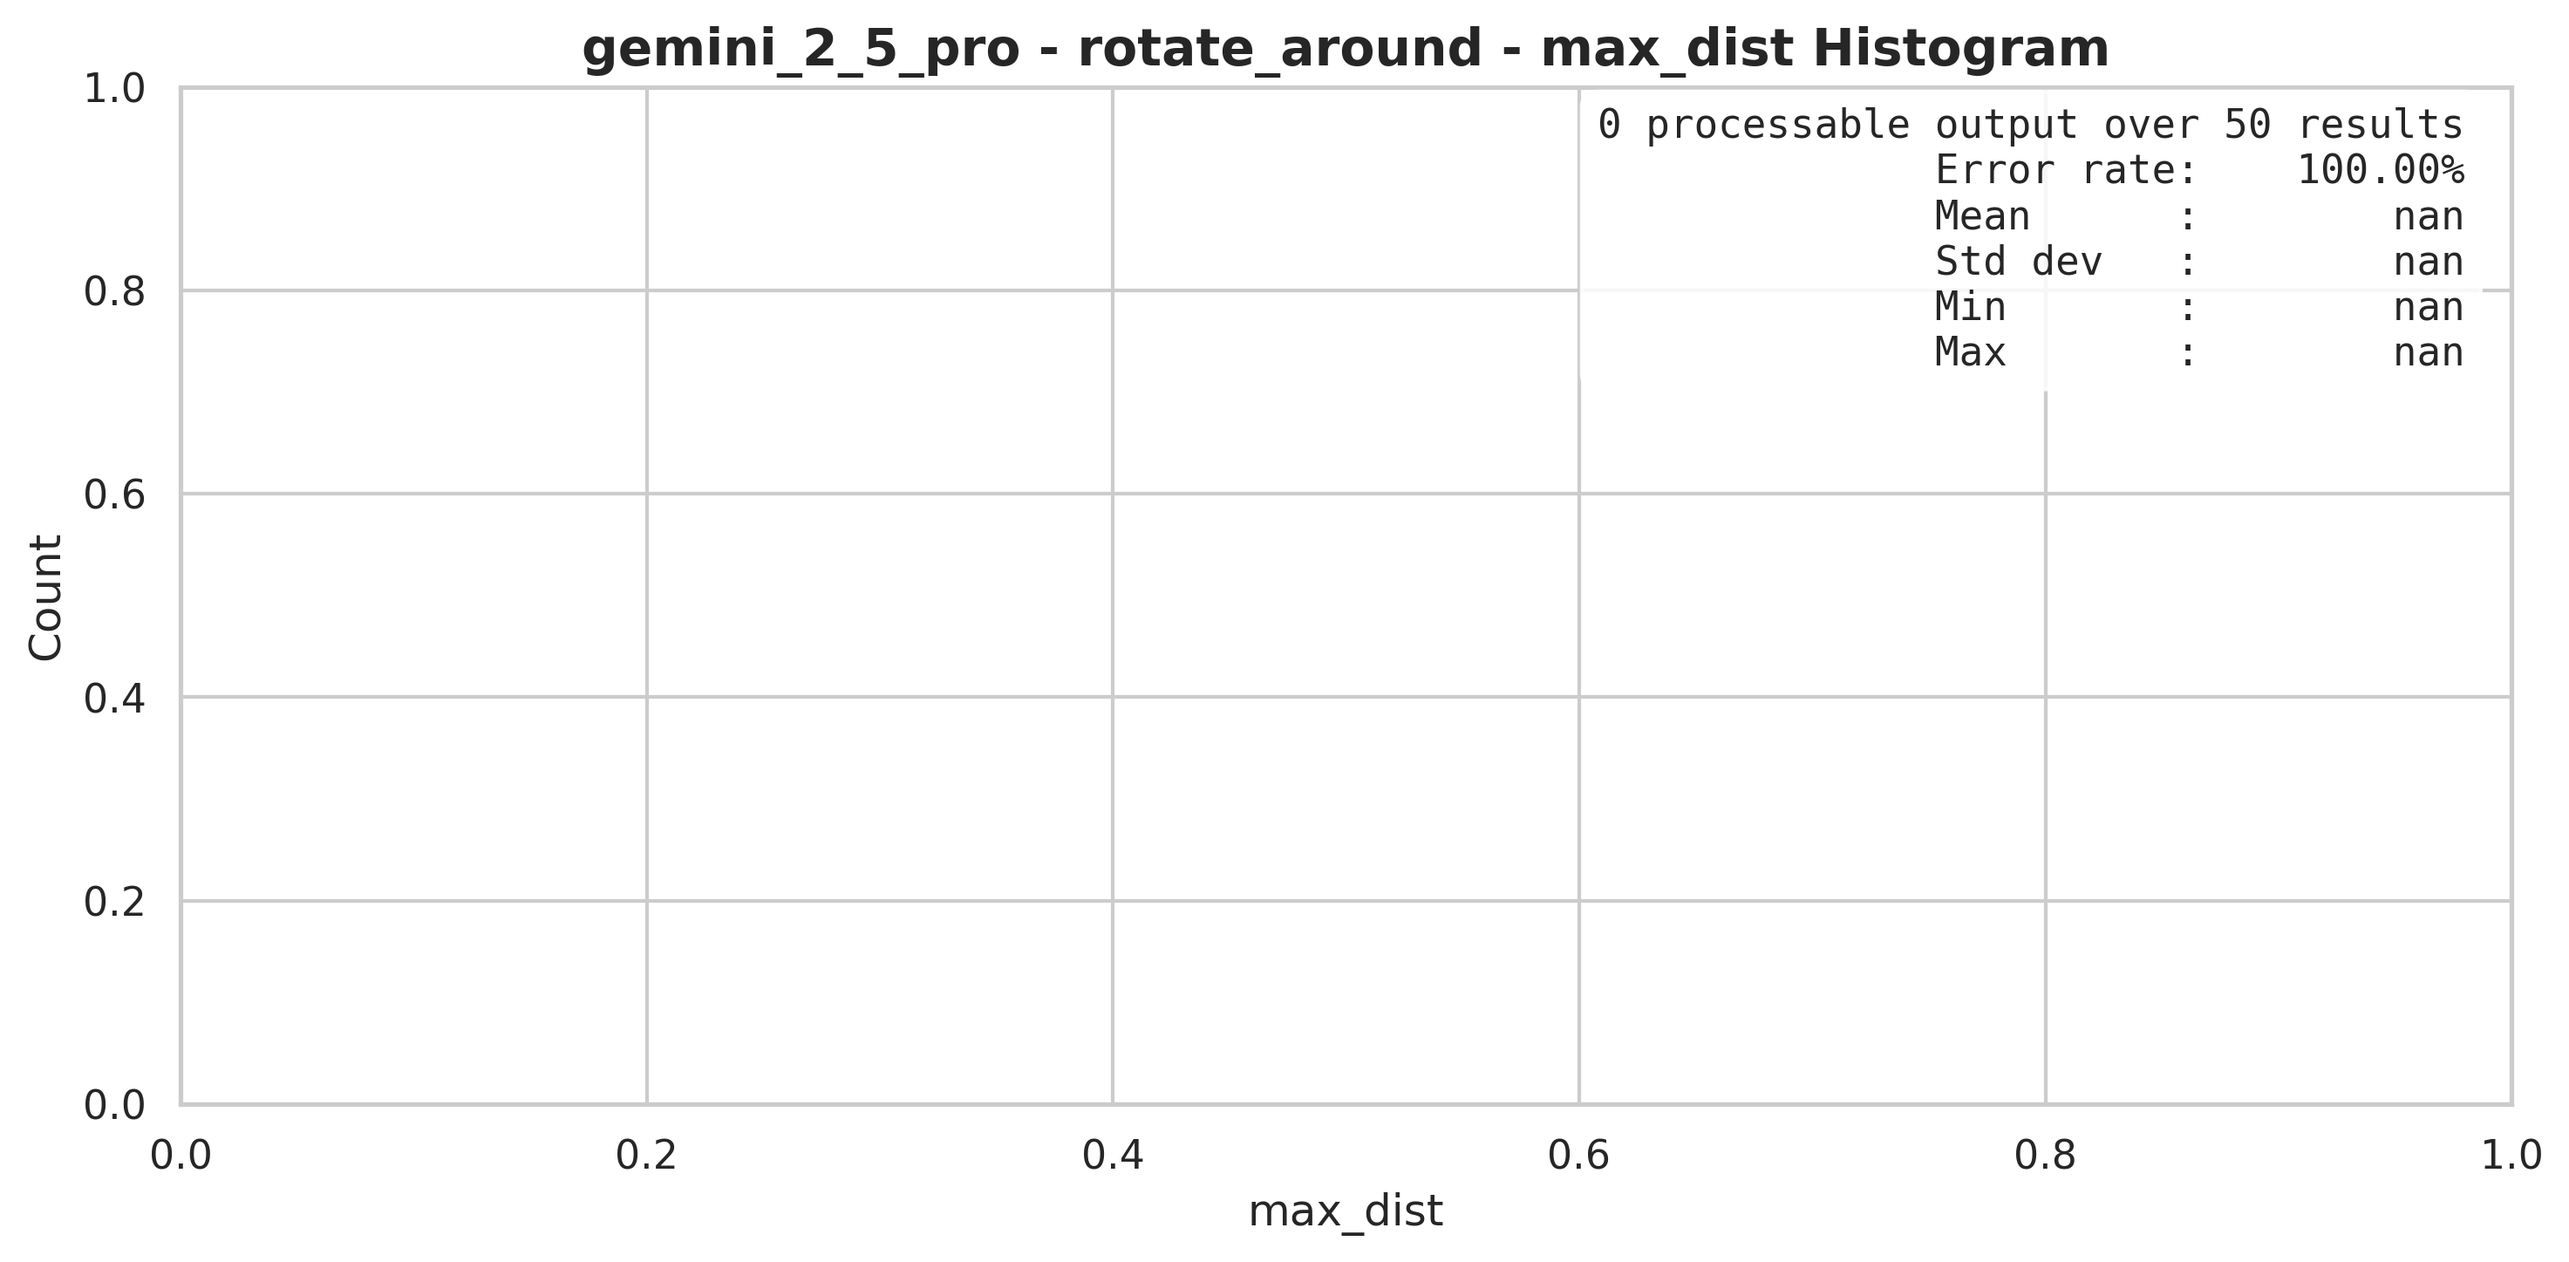
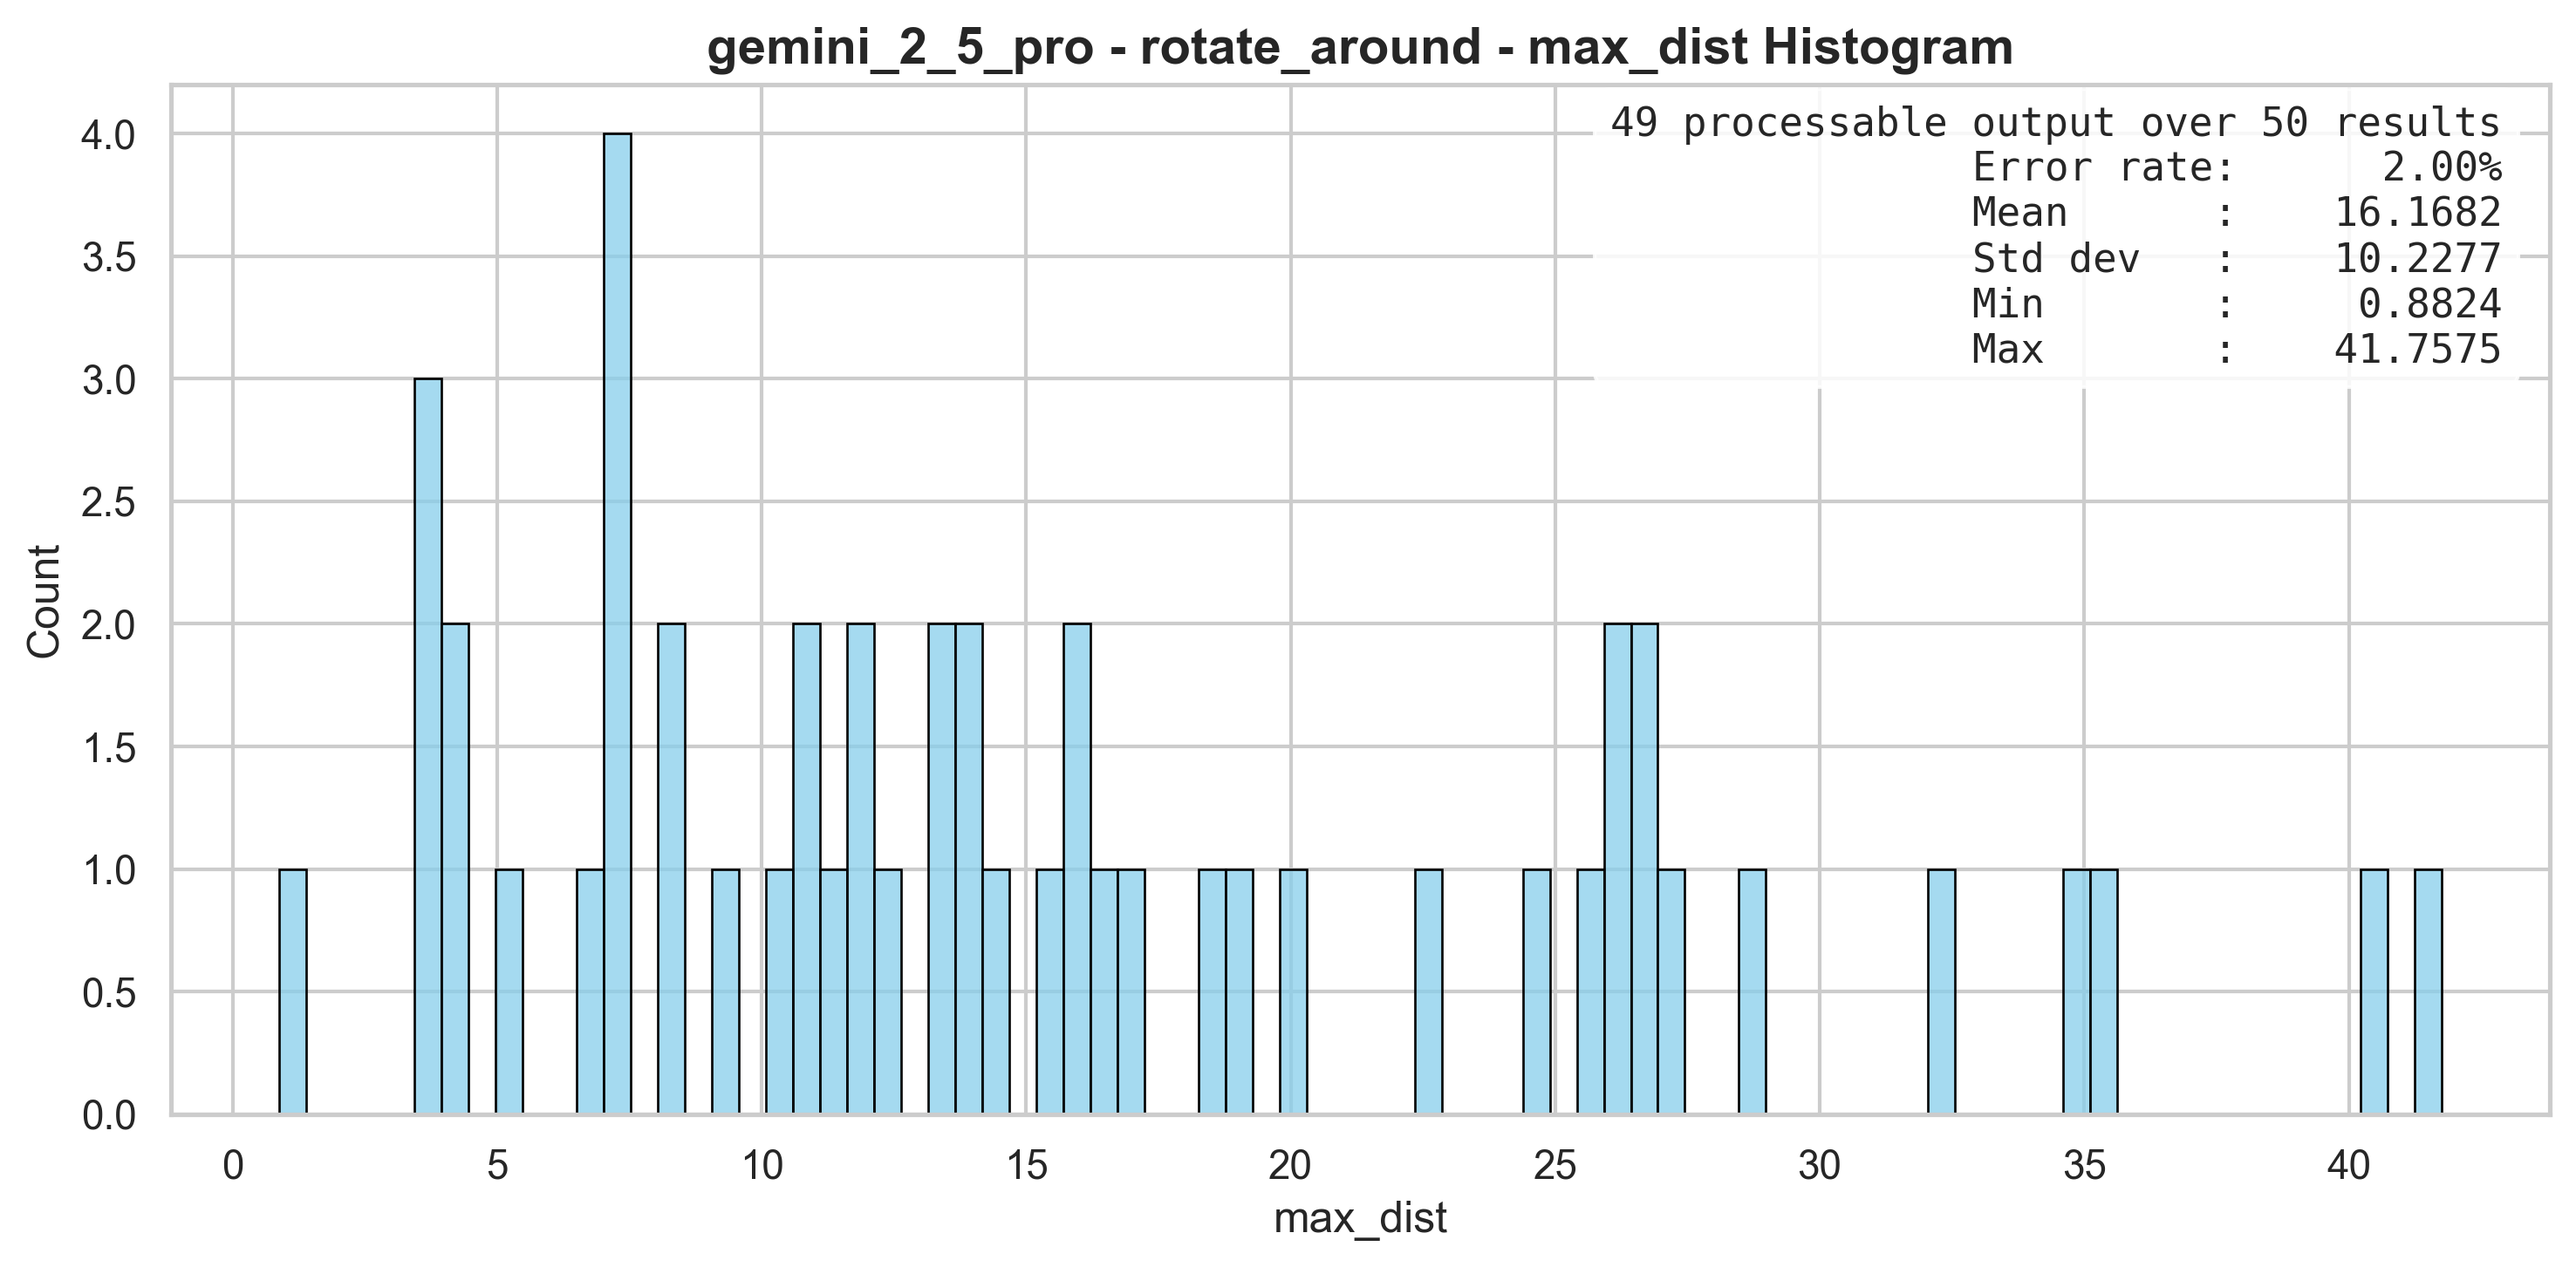
multi-folder analyse

diff --git a/src/point_world/scripts/analyze.py b/src/point_world/scripts/analyze.py
@@ -8,6 +8,7 @@ import os
 parser = argparse.ArgumentParser(description="Analyze evaluation results.")
 parser.add_argument("-m", "--model_name", type=str, required=True, help="Name of the model")
 parser.add_argument("-a", "--action_name", type=str, required=True, help="Name of the action")
+parser.add_argument("--all", action="store_true", help="Merge all result CSVs for the given model and action from all subfolders")
 args = parser.parse_args()
 
 # ========== Setup ==========
@@ -16,29 +17,53 @@ model_name = args.model_name
 action_name = args.action_name
 results_folder = f"{base_folder}/{model_name}/{action_name}"
 
-# Find the latest datetime subfolder under the model/action folder
-subfolders = [d for d in os.listdir(results_folder) if os.path.isdir(os.path.join(results_folder, d))]
-if subfolders:
-    latest_datetime_subfolder = sorted(subfolders)[-1]
-    results_folder = os.path.join(results_folder, latest_datetime_subfolder)
+if args.all:
+    # Merge all result CSVs for the given model and action from all time-named subfolders
+    subfolders = [d for d in os.listdir(results_folder) if os.path.isdir(os.path.join(results_folder, d))]
+    dfs = []
+    df_errs_list = []
+    for subfolder in subfolders:
+        folder_path = os.path.join(results_folder, subfolder)
+        results_file_path = os.path.join(folder_path, f"{action_name}_evaluation_results.csv")
+        wrongs_file_path = os.path.join(folder_path, f"{action_name}_evaluation_wrongs.csv")
+        if os.path.exists(results_file_path):
+            df = pd.read_csv(results_file_path, sep=',')
+            dfs.append(df)
+        if os.path.exists(wrongs_file_path):
+            try:
+                df_err = pd.read_csv(wrongs_file_path, sep=',')
+                df_errs_list.append(df_err)
+            except pd.errors.EmptyDataError:
+                pass
+    if not dfs:
+        raise FileNotFoundError("No result CSVs found in any subfolder.")
+    df_results = pd.concat(dfs, ignore_index=True)
+    df_errs = pd.concat(df_errs_list, ignore_index=True) if df_errs_list else pd.DataFrame()
+    print(f"Analysing all time-named subfolders for: {results_folder}")
+else:
+    # Find the latest datetime subfolder under the model/action folder
+    subfolders = [d for d in os.listdir(results_folder) if os.path.isdir(os.path.join(results_folder, d))]
+    if subfolders:
+        latest_datetime_subfolder = sorted(subfolders)[-1]
+        results_folder = os.path.join(results_folder, latest_datetime_subfolder)
 
-print(f"Analysing folder: {results_folder}")
-results_file = os.path.join(results_folder, f"{action_name}_evaluation_results.csv")
-wrongs_file = os.path.join(results_folder, f"{action_name}_evaluation_wrongs.csv")
+    print(f"Analysing folder: {results_folder}")
+    results_file = os.path.join(results_folder, f"{action_name}_evaluation_results.csv")
+    wrongs_file = os.path.join(results_folder, f"{action_name}_evaluation_wrongs.csv")
 
-# ========== Load Data ==========
-df_results = pd.read_csv(results_file, sep=',')
-try:
-    df_errs = pd.read_csv(wrongs_file, sep=',')
-except pd.errors.EmptyDataError:
-    df_errs = pd.DataFrame()
+    # ========== Load Data ========== 
+    df_results = pd.read_csv(results_file, sep=',')
+    try:
+        df_errs = pd.read_csv(wrongs_file, sep=',')
+    except pd.errors.EmptyDataError:
+        df_errs = pd.DataFrame()
 
 # ========== Statistics ==========
 tolerance = 0.5
 # if max_error is larger than tolerance, consider it an error
 df_results['max_error'] = df_results['max_error'].astype(float)
-num_larger_than_tolerance = df_results[df_results['max_error'] > tolerance].shape[0]
-df_results = df_results[df_results['max_error'] <= tolerance]
+num_larger_than_tolerance = 0#df_results[df_results['max_error'] > tolerance].shape[0]
+# df_results = df_results[df_results['max_error'] <= tolerance]
 
 stats = df_results['max_error'].describe()
 err_rate = len(df_errs) / (len(df_results) + len(df_errs))

diff --git a/src/point_world/actions.py b/src/point_world/actions.py
@@ -42,7 +42,7 @@ class MoveAction(BaseAction):
         return env.get_state()
 
     def __str__(self):
-        return f"Move the point at index {self.config['index']} by displacement {self.config['displacement']}"
+        return f"Move the point at index {self.config['index']} by displacement {self.config['displacement']}."
 
 
 class MoveTowardsAction(BaseAction):
@@ -54,7 +54,7 @@ class MoveTowardsAction(BaseAction):
         return env.get_state()
 
     def __str__(self):
-        return f"Move the point at index {self.config['from_index']} towards the point at index {self.config['to_index']} by {self.config['distance']}"
+        return f"Move the point at index {self.config['from_index']} towards the point at index {self.config['to_index']} by {self.config['distance']}."
 
 
 class InsertBetweenAction(BaseAction):
